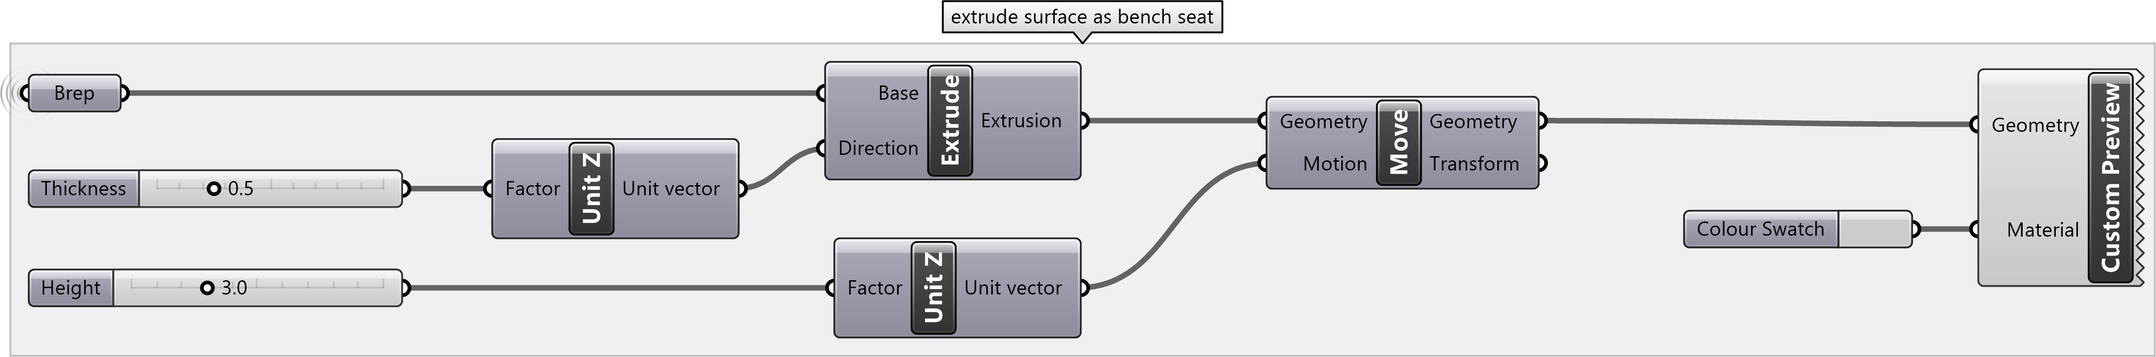
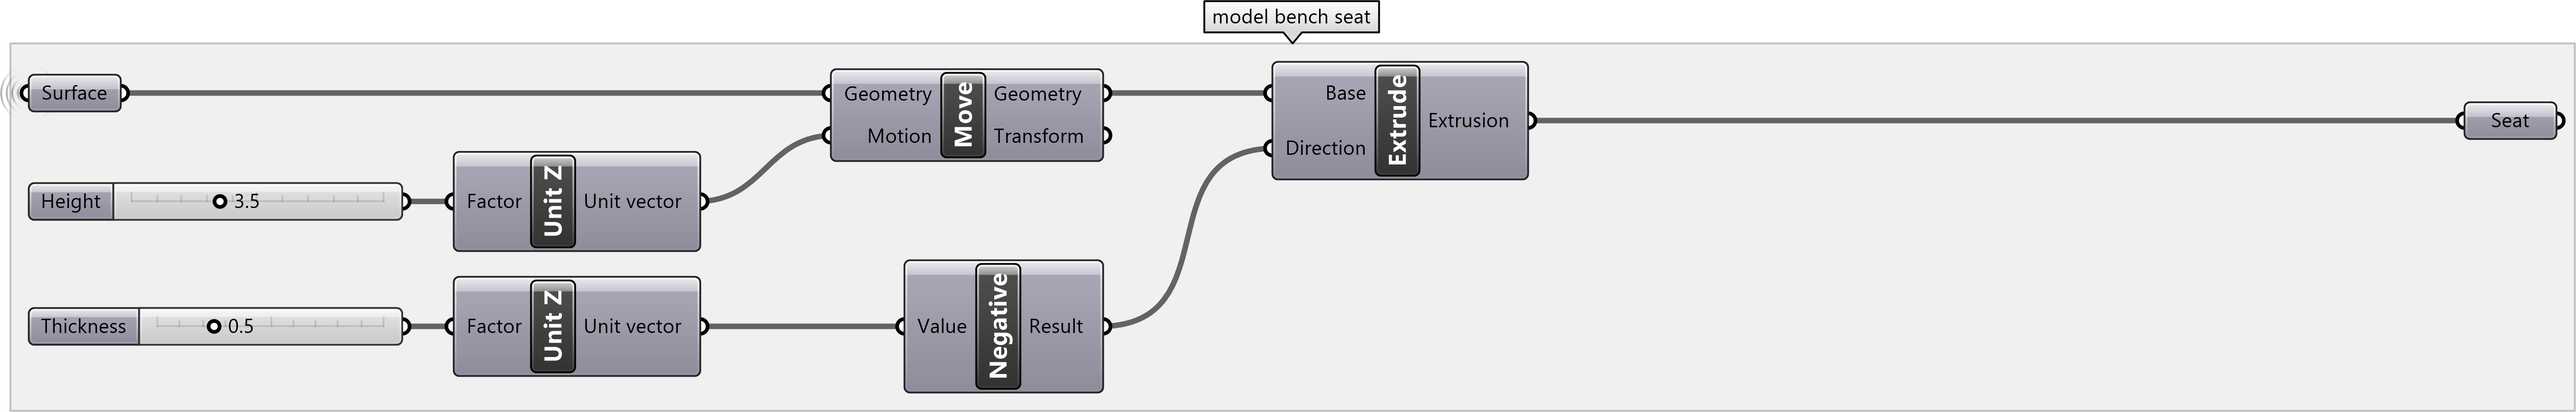
updated courses

diff --git a/_pages/generative-landscapes/parametric-bench.md b/_pages/generative-landscapes/parametric-bench.md
@@ -13,7 +13,6 @@ usemathjax: true
 ---
 
 ## Parametric Bench
-
 When form is generated by an algorithm,
 variations in form can be explored
 by changing the input parameters of the algorithm.
@@ -22,6 +21,7 @@ from two curves.
 The shape of the bench can be morphed
 by changing its parameters -
 i.e. the coordinates of control points,
+the width of the bench,
 the thickness of the bench,
 and the height of the bench.
 Download the Grasshopper definition
@@ -33,14 +33,19 @@ Watch the video tutorial at
 ---
 
 ## Surface
-
 First create two sets of points.
-Each set of points will serve as control points along a curve.
+Each set of points will be interpolated as a curve.
 Create the points by placing point parameters
-and setting their coordinates in Rhino.  
+and setting their coordinates in Rhino.
+Place the points for both curves along the y-axis.
+The start points of each curve should have the same coordinates
+and the end points should have the same coordinates.
 [Interpolate](https://grasshopperdocs.com/components/grasshoppercurve/interpolate.html)
-two curves through these sets of points.
-Then create either a
+two curves through these two sets of points.
+Set the width of bench by using the
+[move](https://grasshopperdocs.com/components/grasshoppertransform/move.html)
+component to translate the second curve along the x-axis.
+Create either a
 [ruled surface](https://grasshopperdocs.com/components/grasshoppersurface/ruledSurface.html)
 or a [loft](http://grasshopperdocs.com/components/grasshoppersurface/loft.html)
 from the two curves.
@@ -55,12 +60,13 @@ a long flat stretch or a concave area.
 
 
 ## Extrusion
-
-[Extrude](https://grasshopperdocs.com/components/grasshoppersurface/extrude.html)
-the surface of the bench on the z-axis to give it a thickness.
-Then move it on the z-axis to the desired height for sitting.
-Add a custom preview with a color swatch
-to better visualize your design.
+Next model the seat of the bench from this surface.
+[Move](https://grasshopperdocs.com/components/grasshoppertransform/move.html)
+the surface of the bench on the z-axis to the desired height for sitting.
+Then
+[extrude](https://grasshopperdocs.com/components/grasshoppersurface/extrude.html)
+the surface of the bench down on the z-axis to give it a thickness.
+The bench now has width, height, and thickness parameters.
 
 ![Extrusion](/images/grasshopper/parametric-bench-program-2.png)
 
@@ -70,19 +76,61 @@ to better visualize your design.
 Model legs for the bench
 based on the start and end points of the curves
 and on the thickness and height of the bench.
-Use the
+First find the
+[end points](https://grasshopperdocs.com/components/grasshoppercurve/endPoints.html)
+of the curves that define the shape of bench.
+Then use the
 [Line](https://grasshopperdocs.com/components/grasshoppercurve/line.html)
 component to construct a line between the start points of the curves
 and another line between the end points of the curves.
-Extrude these lines upwards on the z-axis
-by the sum of the thickness and height
+Extrude these lines upwards on the z-axis by the height parameter
 to form the outer face of the legs.
 Then extrude the resulting surfaces inwards on the y-axis
 to give the legs a thickness.
+Connect the
+[unit y](https://grasshopperdocs.com/components/grasshoppervector/unitY.html)
+vector to the
+[extrude](https://grasshopperdocs.com/components/grasshoppersurface/extrude.html)
+component to move extrude the first leg along the y-axis.
+Then connect the [unit y](https://grasshopperdocs.com/components/grasshoppervector/unitY.html)
+vector to the a
+[negative](https://grasshopperdocs.com/components/grasshoppermaths/negative.html)
+component and connect that to the
+[extrude](https://grasshopperdocs.com/components/grasshoppersurface/extrude.html)
+component to reverse the direction of extrusion for the second leg of the bench.
+
+![Legs](/images/grasshopper/parametric-bench-program-3.png)
+
+---
+
+## Solid Modeling
+
+Use Boolean modeling operations to make a seamless solid model of the bench.
+A Boolean union adds geometry together to form a merged solid volume.
+First add the legs to the seat of the bench with a
+[solid union](https://grasshopperdocs.com/components/grasshopperintersect/solidUnion.html).
+Inspect the corners of the bench where the legs and the seat meet.
+Depending of the curvature of the seat,
+the top of the legs may stick through the seat of the bench.
+A Boolean difference subtracts one geometry from another.
+Use a
+[solid difference](https://grasshopperdocs.com/components/grasshopperintersect/solidDifference.html)
+to remove the top of the legs where they stick through the seat.
+To do this first
+[extrude](https://grasshopperdocs.com/components/grasshoppersurface/extrude.html)
+the surface of the seat upwards on the z-axis to create an cutting object,
+i.e. the geometry to subtract with.
+Then connect the unioned geometry
+as the first input - the geometry to subtract from -  to
+a [solid difference](https://grasshopperdocs.com/components/grasshopperintersect/solidDifference.html).
+Connect the extruded cutting object as the second input -
+the geometry to subtract with.
 Add a custom preview with a color swatch
 to better visualize your design.
 
-![Legs](/images/grasshopper/parametric-bench-program-3.png)
+![Solid Modeling](/images/grasshopper/parametric-bench-program-4.png)
+
+![Custom Preview](/images/grasshopper/parametric-bench-program-5.png)
 
 ---
 
@@ -116,7 +164,6 @@ When it finishes use hit `save image as` to export a `.png.`
 ---
 
 ## Thea Render
-
 To make a high quality ray traced rendering with Thea for Rhino,
 disable the custom previews components in Grasshopper,
 bake the extruded geometry to Rhino,
